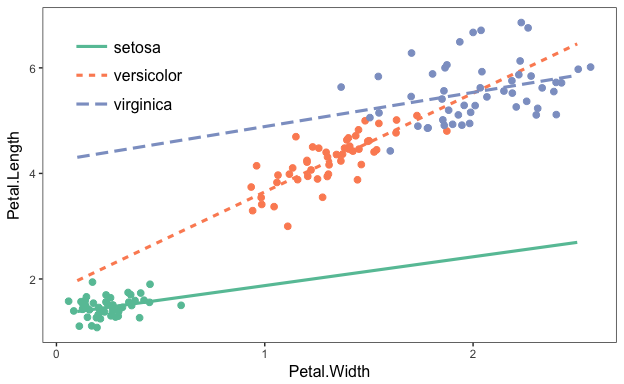
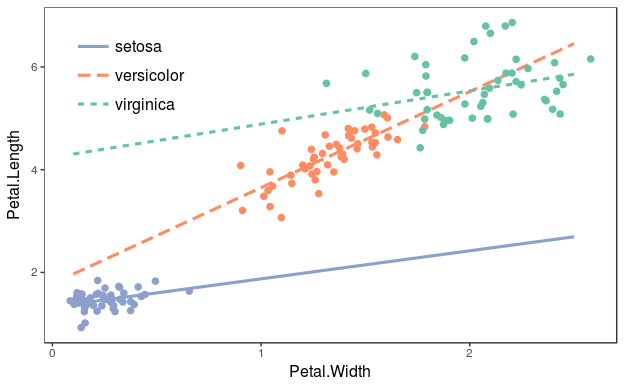
Housekeeping for CRAN 0.9.1 release

diff --git a/README.md b/README.md
@@ -57,10 +57,10 @@ summ(fit)
     #> Adj. R-squared = 0.81
     #> 
     #> Standard errors: OLS 
-    #>             Est.  S.E. t val. p    
-    #> (Intercept) 37.23 1.6  23.28  0 ***
-    #> hp          -0.03 0.01 -3.52  0 ** 
-    #> wt          -3.88 0.63 -6.13  0 ***
+    #>              Est. S.E. t val. p    
+    #> (Intercept) 37.23 1.6   23.28 0 ***
+    #> hp          -0.03 0.01  -3.52 0  **
+    #> wt          -3.88 0.63  -6.13 0 ***
 
 It has several conveniences, like re-fitting your model with scaled variables (`scale = TRUE`). You have the option to leave the outcome variable in its original scale (`scale.response = TRUE`), which is the default for scaled models. I'm a fan of Andrew Gelman's 2 SD standardization method, so you can specify by how many standard deviations you would like to rescale (`n.sd = 2`).
 
@@ -81,10 +81,10 @@ summ(fit, scale = TRUE, vifs = TRUE, part.corr = TRUE, confint = TRUE,
     #> Adj. R-squared = 0.81
     #> 
     #> Standard errors: OLS 
-    #>              Est.  2.5% 97.5% t val.   VIF partial.r part.r
-    #> (Intercept) 20.09 19.19 20.99  43.82                       
-    #> hp          -2.18 -3.39 -0.97  -3.52  1.77     -0.55  -0.27
-    #> wt          -3.79 -5.01 -2.58  -6.13  1.77     -0.75  -0.47
+    #>              Est.  2.5% 97.5% t val.  VIF partial.r part.r
+    #> (Intercept) 20.09 19.19 20.99  43.82                      
+    #> hp          -2.18 -3.39 -0.97  -3.52 1.77     -0.55  -0.27
+    #> wt          -3.79 -5.01 -2.58  -6.13 1.77     -0.75  -0.47
     #> 
     #> All continuous predictors are mean-centered and scaled by 1 s.d.
 
@@ -106,9 +106,9 @@ summ(fit2, robust = TRUE, cluster = "firm", robust.type = "HC3")
     #> Adj. R-squared = 0.21
     #> 
     #> Standard errors: Cluster-robust, type = HC3
-    #>             Est. S.E. t val. p       
-    #> (Intercept) 0.03 0.07 0.44   0.66    
-    #> x           1.03 0.05 20.36  0    ***
+    #>             Est. S.E. t val.    p    
+    #> (Intercept) 0.03 0.07   0.44 0.66    
+    #> x           1.03 0.05  20.36 0    ***
 
 Of course, `summ` like `summary` is best-suited for interactive use. When it comes to share results with others, you want sharper output and probably graphics. `jtools` has some options for that, too.
 
@@ -122,93 +122,93 @@ export_summs(fit, fit_b, fit_c, scale = TRUE, scale.response = TRUE,
              note = "")
 ```
 
-<table style="width:60%;">
+<table style="width:82%;">
 <colgroup>
 <col width="18%" />
-<col width="13%" />
-<col width="13%" />
-<col width="13%" />
+<col width="22%" />
+<col width="20%" />
+<col width="20%" />
 </colgroup>
 <thead>
 <tr class="header">
 <th></th>
-<th align="center">(1)</th>
-<th align="center">(2)</th>
-<th align="center">(3)</th>
+<th align="center">( 1)</th>
+<th align="center">( 2)</th>
+<th align="center">( 3)</th>
 </tr>
 </thead>
 <tbody>
 <tr class="odd">
 <td>(Intercept)</td>
-<td align="center">0.00    </td>
-<td align="center">0.00    </td>
-<td align="center">0.00    </td>
+<td align="center">2.51e-17.00   </td>
+<td align="center">2.34e-17.00  </td>
+<td align="center">7.45e-17.00  </td>
 </tr>
 <tr class="even">
 <td></td>
 <td align="center">(0.08)   </td>
-<td align="center">(0.08)   </td>
-<td align="center">(0.08)   </td>
+<td align="center">(0.08)  </td>
+<td align="center">(0.08)  </td>
 </tr>
 <tr class="odd">
 <td>hp</td>
-<td align="center">-0.36 ***</td>
-<td align="center">-0.35 ** </td>
-<td align="center">-0.40 ** </td>
+<td align="center">-0.36 ** </td>
+<td align="center">-0.35 * </td>
+<td align="center">-0.40 **</td>
 </tr>
 <tr class="even">
 <td></td>
 <td align="center">(0.10)   </td>
-<td align="center">(0.13)   </td>
-<td align="center">(0.13)   </td>
+<td align="center">(0.13)  </td>
+<td align="center">(0.13)  </td>
 </tr>
 <tr class="odd">
 <td>wt</td>
 <td align="center">-0.63 ***</td>
-<td align="center">-0.62 ***</td>
-<td align="center">-0.56 ***</td>
+<td align="center">-0.62 **</td>
+<td align="center">-0.56 **</td>
 </tr>
 <tr class="even">
 <td></td>
 <td align="center">(0.10)   </td>
-<td align="center">(0.17)   </td>
-<td align="center">(0.18)   </td>
+<td align="center">(0.17)  </td>
+<td align="center">(0.18)  </td>
 </tr>
 <tr class="odd">
 <td>disp</td>
 <td align="center">       </td>
-<td align="center">-0.02    </td>
-<td align="center">0.08    </td>
+<td align="center">-0.02  </td>
+<td align="center">0.08  </td>
 </tr>
 <tr class="even">
 <td></td>
 <td align="center">       </td>
-<td align="center">(0.21)   </td>
-<td align="center">(0.22)   </td>
+<td align="center">(0.21)  </td>
+<td align="center">(0.22)  </td>
 </tr>
 <tr class="odd">
 <td>drat</td>
 <td align="center">       </td>
-<td align="center">       </td>
-<td align="center">0.16    </td>
+<td align="center">      </td>
+<td align="center">0.16  </td>
 </tr>
 <tr class="even">
 <td></td>
 <td align="center">       </td>
-<td align="center">       </td>
-<td align="center">(0.12)   </td>
+<td align="center">      </td>
+<td align="center">(0.12)  </td>
 </tr>
 <tr class="odd">
 <td>N</td>
 <td align="center">32       </td>
-<td align="center">32       </td>
-<td align="center">32       </td>
+<td align="center">32      </td>
+<td align="center">32      </td>
 </tr>
 <tr class="even">
-<td>R2</td>
+<td>R 2</td>
 <td align="center">0.83    </td>
-<td align="center">0.83    </td>
-<td align="center">0.84    </td>
+<td align="center">0.83   </td>
+<td align="center">0.84   </td>
 </tr>
 </tbody>
 </table>

diff --git a/NEWS.md b/NEWS.md
@@ -9,6 +9,18 @@ whether there is a second moderator or not. For continuous moderators, the
 darkest line should also be a solid line and it is by default the highest 
 value of the moderator.
 
+Other fixes:
+
+* An update to `huxtable` broke `export_summs`, but that has been fixed.
+
+Feature updates:
+
+* You can now manually provide colors to `interact_plot` and `cat_plot` by 
+providing a vector of colors (any format that `ggplot2` accepts) for the 
+`color.class` argument.
+* Noah Greifer wrote up a tweak to `summ` that formats the output in a way that
+lines up the decimal points. It looks great.
+
 ## jtools 0.9.0 (CRAN release)
 
 This may be the single biggest update yet. If you downloaded from CRAN, be sure
